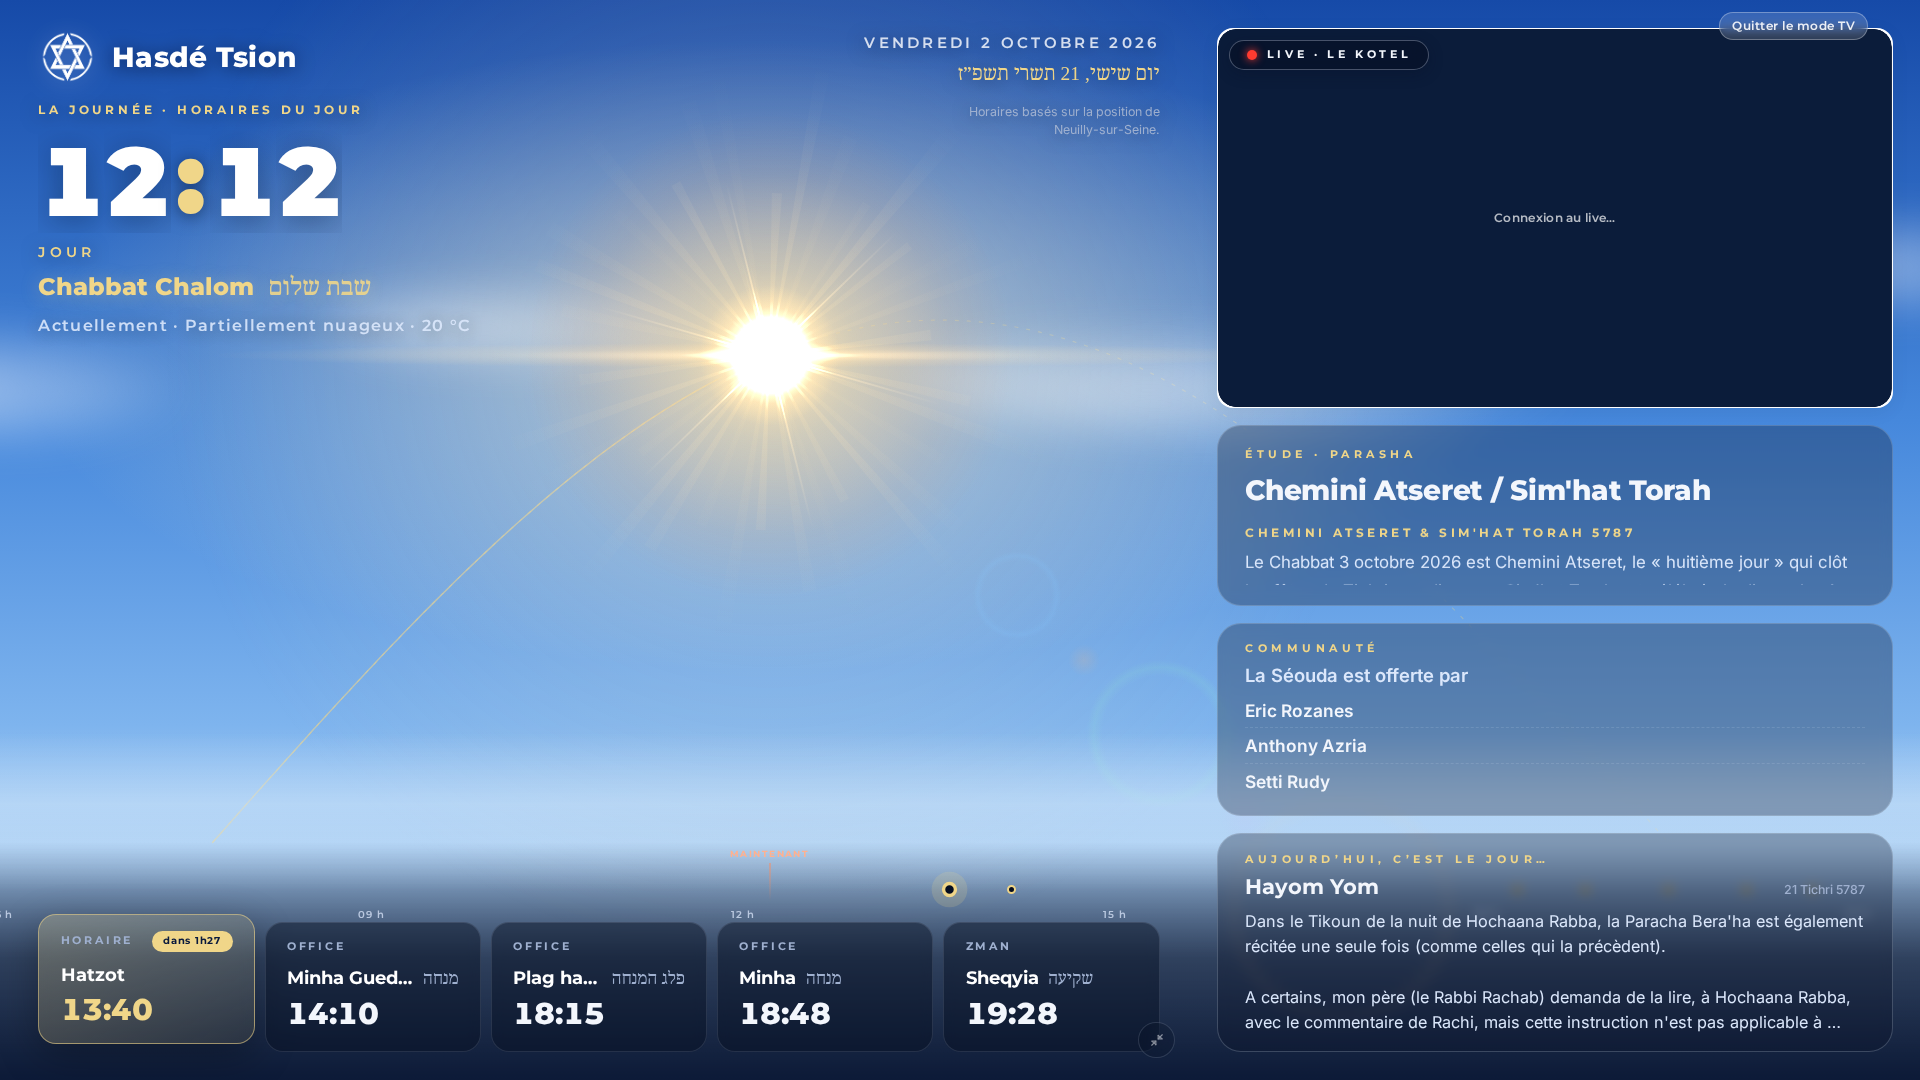
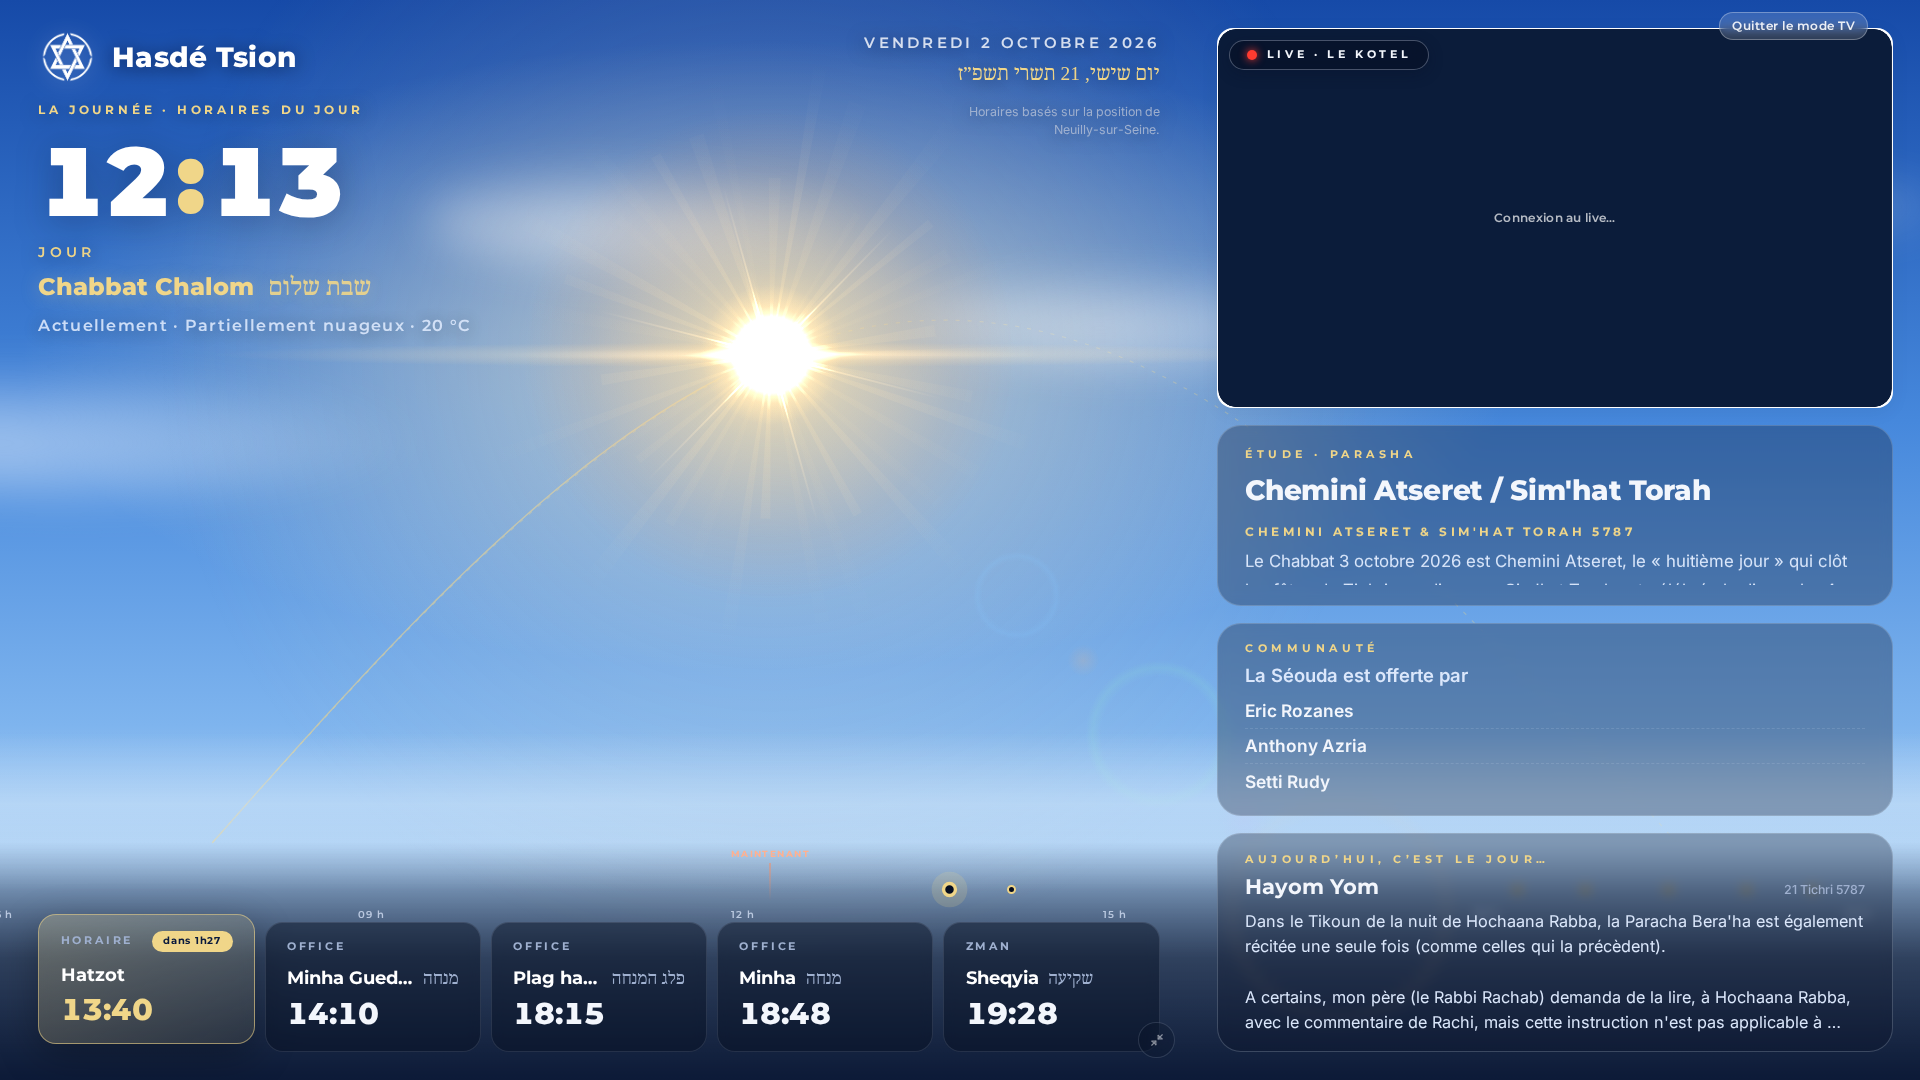
Changes

diff --git a/src/styles.css b/src/styles.css
@@ -708,7 +708,7 @@ select:focus-visible {
 .chants-page .chant-lyr { color: var(--chant-ice); border-color: var(--chant-line); }
 
 /* ===== TV — scène du ciel refondue ===== */
-.tv-clock { filter: drop-shadow(0 4px 18px rgba(5,13,32,.3)); text-shadow: none; display: flex; margin-top: 1vh; font-family: 'Montserrat', system-ui, sans-serif; font-weight: 900; font-size: 9vh; line-height: 1; letter-spacing: -0.02em; font-variant-numeric: tabular-nums; }
+.tv-clock { text-shadow: none; display: flex; margin-top: 1vh; font-family: 'Montserrat', system-ui, sans-serif; font-weight: 900; font-size: 9vh; line-height: 1; letter-spacing: -0.02em; font-variant-numeric: tabular-nums; }
 .tv-clock .d { display: inline-block; overflow: hidden; height: 1.06em; }
 .tv-clock .d span { display: block; height: 1.06em; line-height: 1.06; color: #ffffff; text-shadow: none; animation: tv-digit 0.7s cubic-bezier(0.16, 1, 0.3, 1); }
 .tv-clock .sep { color: #f0d689; padding: 0 0.06em; }
@@ -723,3 +723,4 @@ select:focus-visible {
 .tv-mk.cur { transform: scale(1.7); box-shadow: 0 0 0 6px rgba(240, 214, 137, 0.18); }
 .tv-now { position: absolute; top: -44px; height: 38px; width: 1px; background: linear-gradient(#ff8a5b, rgba(255, 138, 91, 0)); transform: translateX(-50%); opacity: 0; transition: opacity 0.4s; }
 .tv-now b { position: absolute; top: -16px; left: 50%; transform: translateX(-50%); font-family: 'Montserrat', system-ui, sans-serif; font-size: 0.58rem; font-weight: 700; letter-spacing: 0.16em; text-transform: uppercase; color: #ffb08f; white-space: nowrap; }
+.tv-clock, .tv-clock * { text-shadow: none !important; }
